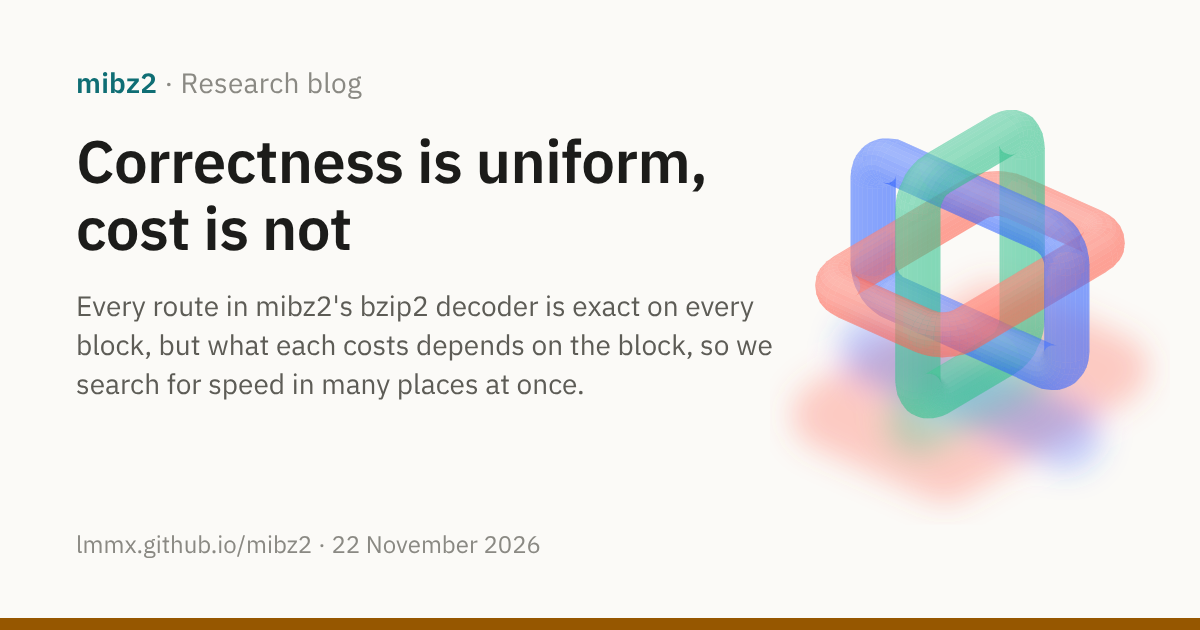
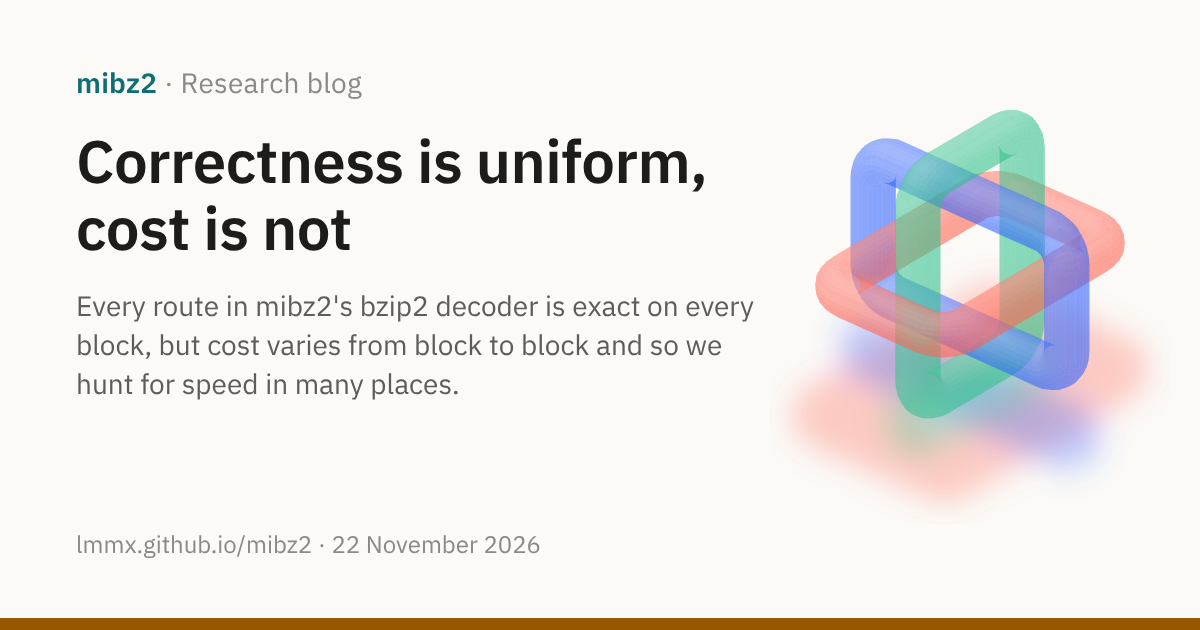
docs(blog): tighten 'Correctness is uniform, cost is not' to check_prose's band
The dek failed check_prose (29 words, 2 breaks); it is now 27 words with
one break, and the description, index card and social card follow it.
In the body, 32 of 142 sentences (23%) were flagged; overloaded ones are
split, with no claim changed, leaving 13 of 167 (8%).

Changed region(s): [[0.1542, 0.5127, 0.6475, 0.573], [0.0617, 0.6032, 0.4933, 0.6333]]

diff --git a/docs/site/blog/2026-11-22-correctness-is-uniform-cost-is-not.md b/docs/site/blog/2026-11-22-correctness-is-uniform-cost-is-not.md
@@ -1,7 +1,7 @@
 ---
 title: "Correctness is uniform, cost is not"
 image: assets/social/blog-2026-11-22-correctness-is-uniform-cost-is-not.png
-description: "Every route in mibz2's bzip2 decoder is exact on every block, but what each costs depends on the block, so we search for speed in many places at once."
+description: "Every route in mibz2's bzip2 decoder is exact on every block, but cost varies from block to block and so we hunt for speed in many places."
 ---
 
 <div class="post-hero" markdown>
@@ -13,7 +13,7 @@ description: "Every route in mibz2's bzip2 decoder is exact on every block, but 
 
 # Correctness is uniform, cost is not
 
-Every route in mibz2's bzip2 decoder is exact on every block, but what each costs depends on the block, so we search for speed in many places at once.
+Every route in mibz2's bzip2 decoder is exact on every block, but cost varies from block to block and so we hunt for speed in many places.
 {: .post-dek }
 
 22 November 2026 · 12 min read · [Research in progress](#7-what-is-proved-measured-and-open)
@@ -25,7 +25,7 @@ Every route in mibz2's bzip2 decoder is exact on every block, but what each cost
 
 </div>
 
-mibz2 is a bzip2 decoder in Rust, and most of its time goes on inverting the Burrows–Wheeler transform (BWT) of each block. Real compressed data offers that inversion no single way in. A block of a Wikidata dump is a JSON skeleton, copies of text already decoded, and random identifiers that no local structure predicts, in proportions that change from block to block. So the decoder is fast through several exact constructions, each cheap on a different structure, and its mathematics is as varied as its data.
+mibz2 is a bzip2 decoder in Rust, and most of its time goes on inverting the Burrows–Wheeler transform (BWT) of each block. Real compressed data offers that inversion no single way in. A block of a Wikidata dump holds a JSON skeleton, copies of text already decoded, and random identifiers that no local structure predicts. The proportions change from block to block. So the decoder is fast through several exact constructions, each cheap on a different structure, and its mathematics is as varied as its data.
 
 **The takeaways:**
 
@@ -33,13 +33,13 @@ mibz2 is a bzip2 decoder in Rust, and most of its time goes on inverting the Bur
 2. **Each fast route bets on a structure.** The bet is a cost hypothesis: when the block has this structure, this construction is cheaper. Finding structures worth betting on is the research.
 3. **When the data refuses a hypothesis, there are three responses:** weaken it; certify it more cheaply; or change the representation so it is no longer needed. Refusals are where the next construction comes from.
 4. **Global changes of representation are rare.** We have had one. Below it we pursue local constructions on purpose, and they may yet reveal a general one. We do not know how complete the family is.
-5. **Scope:** one decoder, bzip2's inverse BWT, judged on one workstation (an i9-10900K with a 20 MiB L3), with Wikidata as the main corpus. Nothing here is proved in Lean yet, and the literary analogy in §5 is not evidence.
+5. **Scope:** one decoder, bzip2's inverse BWT, with Wikidata as the main corpus. One workstation judges it: an i9-10900K with a 20 MiB L3. Nothing here is proved in Lean yet, and the literary analogy in §5 is not evidence.
 
 ## 1. One proof, two fates
 
-[lean-zip](https://github.com/kim-em/lean-zip) is a DEFLATE implementation in Lean whose round trip, `inflate (deflateRaw data level) = .ok data`, rests on "more than 1,100 theorems". Its README calls the result a ratchet: "the obligation `inflate (deflate x) = x` either still holds or the build goes red", so agents can optimise it hard without breaking it. It also says where it stands: its decoder trails "the C-grade decoders (miniz_oxide by ~1.45×, libdeflate by ~2.5×)". The theorem guarantees every optimisation is correct. It does not say which will be fast.
+[lean-zip](https://github.com/kim-em/lean-zip) is a DEFLATE implementation in Lean whose round trip, `inflate (deflateRaw data level) = .ok data`, rests on "more than 1,100 theorems". Its README calls the result a ratchet: "the obligation `inflate (deflate x) = x` either still holds or the build goes red". So agents can optimise it hard without breaking it. It also says where it stands: its decoder trails "the C-grade decoders (miniz_oxide by ~1.45×, libdeflate by ~2.5×)". The theorem guarantees every optimisation is correct. It does not say which will be fast.
 
-mibz2 has the same gap. Two recent changes are both byte-exact on every block, and the i9 judged them very differently at 10 threads on four copies of the Wikidata benchmark:
+mibz2 has the same gap. Two recent changes are both byte-exact on every block. The i9 judged them very differently, at 10 threads on four copies of the Wikidata benchmark:
 
 <figure class="bf-fig" id="cpu-wall">
 <p class="bf-title">Two exact changes on the i9 at 10 threads: CPU time against wall time</p>
@@ -47,13 +47,13 @@ mibz2 has the same gap. Two recent changes are both byte-exact on every block, a
 <figcaption>Measured on the i9-10900K, Wikidata ×4, 16 paired rounds each, 95% intervals. The construction stack (runs open-r5/run-20261122T051443Z and, on a later master, run-20261122T103311Z) saved CPU but not wall time. The block reader (parscan-c37/run-20261122T082138Z, decision 2; and block-reader-on-wormhole/run-20261122T093349Z, on top of #739) saved wall time.</figcaption>
 </figure>
 
-The construction stack cut 5% of CPU time in the inverse BWT, and its 10-thread wall time did not move. The block reader shortened the serial stage that feeds the workers, saved less CPU, and cut wall time by 7% alone and 10% on top of #739. With ten workers sharing one cache and one memory bus, saving work and saving time come apart. Correctness certifies that a change is admissible. Its cost lives in the data and the machine.
+The construction stack cut 5% of CPU time in the inverse BWT, and its 10-thread wall time did not move. The block reader shortened the serial stage that feeds the workers and saved less CPU. It cut wall time by 7% alone, and by 10% on top of #739. With ten workers sharing one cache and one memory bus, saving work and saving time come apart. Correctness certifies that a change is admissible. Its cost lives in the data and the machine.
 
 ## 2. What heterogeneity looks like in a Wikidata block
 
 Heterogeneity is measurable, and it shows at three scales.
 
-**Within a block.** Most of a Wikidata block is a repeated JSON skeleton of keys and punctuation, which bzip2 already turns into long runs, cheap to invert. A smaller share is repetition at a distance: `sha1` references and repeated strings, copies of text already decoded. Then there are the statement identifiers. They are random 122-bit GUIDs, and the birthday bound means their contexts shatter after about four or five hex digits. In the [classical-tools audit](https://github.com/lmmx/mibz2/blob/master/docs/journal/2026-11-22-classical-tools-audit.md) they are 53.6–67.1% of the width-1 rows the Open kernel retains, and 28.7% of its emission time on the six blocks measured. Three structures, three costs, in one block.
+**Within a block.** Most of a Wikidata block is a repeated JSON skeleton of keys and punctuation, which bzip2 already turns into long runs, cheap to invert. A smaller share is repetition at a distance: `sha1` references and repeated strings, copies of text already decoded. Then there are the statement identifiers. They are random 122-bit GUIDs, and the birthday bound means their contexts shatter after about four or five hex digits. The [classical-tools audit](https://github.com/lmmx/mibz2/blob/master/docs/journal/2026-11-22-classical-tools-audit.md) measured six blocks. There they are 53.6–67.1% of the width-1 rows the Open kernel retains, and 28.7% of its emission time. Three structures, three costs, in one block.
 
 **In the decoder's own terms.** The dispatch's gates are written in one structural statistic of a block, r/n: run records per row. So the heterogeneity can be read off the gates themselves:
 
@@ -63,7 +63,7 @@ Heterogeneity is measurable, and it shows at three scales.
 <figcaption>One dot per run-route block, from the per-block census of the open-admission journal (docs/journal/2026-11-19-open-admission/blocks.jsonl), coloured by today's route: green, Open; blue, Segmented. Larger dots are full blocks of 100,000 rows or more. Whether the runs corpus's two blocks fit the dense band's cap was not measured; Wikidata's five did.</figcaption>
 </figure>
 
-Wikidata's 233 full blocks lie between r/n 0.059 and 0.206, all inside Open's range, five of them in the dense band. Its 150 tiny blocks lie between 0.40 and 1.0 and go to `Segmented`. By count, Open takes barely half the corpus's 431 blocks; by rows, it takes 99.996%. Text sits just past the dense band, at 0.29–0.33, and the periodic `pattern` and `onebyte` sit below the sparse gate, at 0.008.
+Wikidata's 233 full blocks lie between r/n 0.059 and 0.206, all inside Open's range. Five of them are in the dense band. Its 150 tiny blocks lie between 0.40 and 1.0 and go to `Segmented`. By count, Open takes barely half the corpus's 431 blocks. By rows, it takes 99.996%. Text sits just past the dense band, at 0.29–0.33. The periodic `pattern` and `onebyte` sit below the sparse gate, at 0.008.
 
 **Between corpora.** One exact change gains differently on different data. The block reader of #745 on CI's paired bench, at 4 threads:
 
@@ -73,13 +73,13 @@ Wikidata's 233 full blocks lie between r/n 0.059 and 0.206, all inside Open's ra
 <figcaption>CI's paired bench on #745 (10 rounds, a 4-core Xeon runner, not the i9). Green: faster, the interval excluding no change. Grey: no change shown. The bz2 ratio is each corpus's output over its compressed size. Every run of both builds gave the same output on every corpus.</figcaption>
 </figure>
 
-The change speeds up the serial stage that reads the compressed stream. The barely compressible `records` and `random` gain 6–7%, while `runs` and `onebyte`, compressed hundreds or hundreds of thousands of times, show nothing. That fits the serial stage's share of the work growing with the compressed bytes, though the bench does not measure that share per corpus.
+The change speeds up the serial stage that reads the compressed stream. The barely compressible `records` and `random` gain 6–7%. The `runs` and `onebyte` corpora, compressed hundreds or hundreds of thousands of times, show nothing. That fits the serial stage's share of the work growing with the compressed bytes, though the bench does not measure that share per corpus.
 
-**Between families of data.** A hindsight oracle chose, per block, the fastest of thirteen kernel configurations over a research build: eleven settings of one Open construction, and two walks. On the 431 Wikidata blocks it would save 3.17% over that build's fixed setting; on six non-Wikidata blocks, 12.8–13.1% (single-threaded, on a research host). The same family of kernels has a different headroom on different data.
+**Between families of data.** A hindsight oracle chose, per block, the fastest of thirteen kernel configurations over a research build: eleven settings of one Open construction, and two walks. On the 431 Wikidata blocks it would save 3.17% over that build's fixed setting. On six non-Wikidata blocks it would save 12.8–13.1%. Both are single-threaded, on a research host. The same family of kernels has a different headroom on different data.
 
 ## 3. Exact routes, each betting on a structure
 
-The shipped dispatch, read from `src/` on master and set out in the [proof programme](https://github.com/lmmx/mibz2/blob/master/docs/team/research-charter/PROOF-PROGRAMME.md) (§5.1), looks like this for `OpenCells`, the kernel workers hold at 8 threads and above:
+The [proof programme](https://github.com/lmmx/mibz2/blob/master/docs/team/research-charter/PROOF-PROGRAMME.md) (§5.1) reads the shipped dispatch from `src/` on master. Here it is for `OpenCells`, the kernel workers hold at 8 threads and above:
 
 <figure class="bf-fig" id="dispatch">
 <p class="bf-title">The per-block dispatch: exact routes behind cost gates</p>
@@ -87,9 +87,9 @@ The shipped dispatch, read from `src/` on master and set out in the [proof progr
 <figcaption>The dispatch of OpenCells (src/lib.rs, src/runs.rs, src/open.rs, src/bwt.rs on master). Below 8 workers the kernel is Cells, and the cooperative teams use their own walks; PROOF-PROGRAMME.md §5.1 lists them all. Research candidates are not shown.</figcaption>
 </figure>
 
-A block's records are read when enough of its symbols are runs. On that route, the Open kernel takes the blocks its count gates admit, plus a dense band up to r/n 0.28 under a cap on retained rows ([#703](2026-11-21-a-memory-gain-is-a-gain.md)). Everything refused goes to `Segmented`, the walk that accepts every block.
+A block's records are read when enough of its symbols are runs. On that route, the Open kernel takes the blocks its count gates admit. It also takes a dense band up to r/n 0.28, under a cap on retained rows ([#703](2026-11-21-a-memory-gain-is-a-gain.md)). Everything refused goes to `Segmented`, the walk that accepts every block.
 
-The figure's point is its two kinds of line. Each box is a theorem of one shape: for route i, Pᵢ(x) ⇒ Fᵢ(x) = R(x), where R is the reference, the walk of the LF permutation on a valid block. For every shipped route, Pᵢ is only the entry condition, a valid block. Each is tested against R on arbitrary columns, not just on Wikidata. The gates are not part of any correctness argument. Each chooses for speed or for memory. Correctness is uniform across the routes; the structure each bets on is a cost hypothesis.
+The figure's point is its two kinds of line. Each box is a theorem of one shape: for route i, Pᵢ(x) ⇒ Fᵢ(x) = R(x). Here R is the reference, the walk of the LF permutation on a valid block. For every shipped route, Pᵢ is only the entry condition, a valid block. Each is tested against R on arbitrary columns, not just on Wikidata. The gates are not part of any correctness argument. Each chooses for speed or for memory. Correctness is uniform across the routes; the structure each bets on is a cost hypothesis.
 
 The Open kernel is the route where the unit of computation changes. The LF walk visits one row at a time, and on a block of runs most of those visits are predictable. Open treats the thin runs as strips and computes first-return maps between them, reached through Rauzy–Veech induction. The walk then jumps from strip to strip rather than from row to row. Its [proof](https://github.com/lmmx/mibz2/blob/master/docs/journal/2026-11-18-open-return/proof.md) is in the journal. Inside it, two more bets: a width certificate (below) and repetition of a short marked cycle.
 
@@ -99,7 +99,7 @@ Three refusals from the research lines show where the work is.
 
 - **A solver that never fires.** A pure-arithmetic solver for two-letter Sturmian blocks inverts them in O(log n) steps by the Euclidean algorithm, and it is exact on 5,627 Sturmian BWTs. On Wikidata, `gcd(w) = 1` on every block and 0.00% of Rauzy–Veech steps have a quotient of 2 or more. The hypothesis is sound, cheap to test, and true of no real block.
 - **The GUID wall.** No predicate on local structure picks the GUID rows out for a shortcut, because random identifiers have none. The escape would be to store them other than as BWT rows, which bzip2's format does not allow.
-- **The copy sector.** Three independent mechanisms found the repeated `sha1` and text rows and cut the hops spent on them by 16–58%, byte-exact. All three lose 1.14–2.64× end to end, because finding a copy costs more than emitting it saves: 10.1–10.5 ns a saved hop against 5.79 ns a row. The structure is real and common; recognising it is the obstruction, on the research host.
+- **The copy sector.** Three independent mechanisms found the repeated `sha1` and text rows and cut the hops spent on them by 16–58%, byte-exact. All three lose 1.14–2.64× end to end, because finding a copy costs more than emitting it saves. A saved hop costs 10.1–10.5 ns, against 5.79 ns to emit a row. The structure is real and common; recognising it is the obstruction, on the research host.
 
 Each refusal has three possible answers, and each has an example:
 
@@ -109,16 +109,16 @@ Each refusal has three possible answers, and each has an example:
 
 The first two add or move a branch of the dispatch. Only the third removes branches, and it is what keeps the decoder from becoming a tree that grows with every regime found.
 
-We propose to keep a map of these moves: from which hypothesis, by which move, to which, with the witness, the status and the measured effect. The obstructions go in it too, each with its scope. A failed implementation is not an impossible construction. The copy sector lost on one machine against one base; only an exact obstruction with a witness rules a construction out, and only within its scope.
+We propose to keep a map of these moves. Each entry records the hypothesis moved from, the move and the result. It also records the witness, the status and the measured effect. The obstructions go in it too, each with its scope. A failed implementation is not an impossible construction. The copy sector lost on one machine against one base; only an exact obstruction with a witness rules a construction out, and only within its scope.
 
 ## 5. The stutter
 
-The process in §4 has a shape, and an essay of Gilles Deleuze's names it well. In "He Stuttered", Deleuze separates a character who stutters in speech, which a writer can report, from a writer who makes the language itself stutter. In the second case the variation is not laid over a fixed language from outside. It comes from within the language's own system, putting it in continuous variation and disequilibrium. His examples include Melville, Kafka, Beckett, the poet Gherasim Luca and Charles Péguy, who moves from a word to its near-synonym with a slight shift of meaning each time.
+The process in §4 has a shape, and an essay of Gilles Deleuze's names it well. In "He Stuttered", Deleuze separates a character who stutters in speech, which a writer can report, from a writer who makes the language itself stutter. In the second case the variation is not laid over a fixed language from outside. It comes from within the language's own system, putting it in continuous variation and disequilibrium. His examples include Melville, Kafka, Beckett, the poet Gherasim Luca and Charles Péguy. Péguy moves from a word to its near-synonym, with a slight shift of meaning each time.
 
 The mapping to a decoder is close:
 
 - **The fixed thing said** is the conclusion, = R. It never moves.
-- **The reported stutter** is a special case bolted onto a uniform decoder: a branch that notices a regime and handles it on the side, while the decoder's objects stay what they were.
+- **The reported stutter** is a special case bolted onto a uniform decoder. A branch notices a regime and handles it on the side, while the decoder's objects stay what they were.
 - **The language stuttering** is a construction whose mathematical objects change with the data's structure. Rows become strips and returns; a hypothesis returns weakened, certified, or replaced by a representation that does not need it, and each return changes the question.
 
 The difference in what drives the variation matters. For Deleuze it is the writer, working the language. Here it is the data's resistance, worked by us. The program is the language the proof is written in, so a proof that follows the data must vary with it too.
@@ -129,9 +129,9 @@ The analogy has limits, and they should be plain. Deleuze wrote about literature
 
 Open is the one global change of representation so far. It is a classical idea, the induced map of Poincaré and Kakutani, reached through Rauzy–Veech induction. Everything since has been bound to a regime: the dense band, the width certificate, the block reader.
 
-Local constructions can lead to a global one. In mathematics a different proof of a solved case has opened new routes before: the Riemann Hypothesis for curves over finite fields was proved first by Weil, then by Stepanov's elementary method, completed by Bombieri, and it was that method's descendants that travelled ([Two centuries of tools](2026-11-22-two-centuries-of-tools.md)). Inverse BWT has the same structure. The LF walk, cycle decomposition and first-return induction are different constructive proofs that the BWT is invertible, and each gives a different decoder. The proof programme names seven points, L0 to L6, where one step of the proof can be replaced; Open replaced the classical route at L3, L4 and L5.
+Local constructions can lead to a global one. In mathematics a different proof of a solved case has opened new routes before. The Riemann Hypothesis for curves over finite fields was proved first by Weil. Then came Stepanov's elementary method, completed by Bombieri, and it was that method's descendants that travelled ([Two centuries of tools](2026-11-22-two-centuries-of-tools.md)). Inverse BWT has the same structure. The LF walk, cycle decomposition and first-return induction are different constructive proofs that the BWT is invertible, and each gives a different decoder. The proof programme names seven points, L0 to L6, where one step of the proof can be replaced. Open replaced the classical route at L3, L4 and L5.
 
-What we cannot yet say is how complete the family is. The oracle's 3.17% bounds only the alternatives it chose between: eleven settings of one construction's two parameters, and two walks, over a research build rather than master. It says that family is nearly saturated on Wikidata, and nothing about a construction outside it. The 10-thread plateau points the same way: every construction gain of the last twelve research cycles left the decoder's DRAM traffic at 10 workers at 4.91 bytes per output byte.
+What we cannot yet say is how complete the family is. The oracle's 3.17% bounds only the alternatives it chose between, over a research build rather than master. Those were eleven settings of one construction's two parameters, and two walks. It says that family is nearly saturated on Wikidata, and nothing about a construction outside it. The 10-thread plateau points the same way. Every construction gain of the last twelve research cycles left DRAM traffic at 10 workers unchanged, at 4.91 bytes per output byte.
 
 ## 7. What is proved, measured and open
 

diff --git a/docs/site/blog/index.md b/docs/site/blog/index.md
@@ -8,7 +8,7 @@ What mibz2's experiments are finding, and where they go next. The evidence behin
 post is in the [journals](../background/journals.md) and the pull requests they link.
 
 <div class="post-list">
-<a class="post-card" href="2026-11-22-correctness-is-uniform-cost-is-not.md"><img src="../assets/social/blog-2026-11-22-correctness-is-uniform-cost-is-not.png" alt="" loading="lazy"><span class="post-card-text"><span class="post-card-date">22 November 2026 · Research in progress</span><span class="post-card-title">Correctness is uniform, cost is not</span><span class="post-card-dek">Every route in mibz2's bzip2 decoder is exact on every block, but what each costs depends on the block, so we search for speed in many places at once.</span></span></a>
+<a class="post-card" href="2026-11-22-correctness-is-uniform-cost-is-not.md"><img src="../assets/social/blog-2026-11-22-correctness-is-uniform-cost-is-not.png" alt="" loading="lazy"><span class="post-card-text"><span class="post-card-date">22 November 2026 · Research in progress</span><span class="post-card-title">Correctness is uniform, cost is not</span><span class="post-card-dek">Every route in mibz2's bzip2 decoder is exact on every block, but cost varies from block to block and so we hunt for speed in many places.</span></span></a>
 <a class="post-card" href="2026-11-22-two-centuries-of-tools.md"><img src="../assets/social/blog-2026-11-22-two-centuries-of-tools.png" alt="" loading="lazy"><span class="post-card-text"><span class="post-card-date">22 November 2026 · Meta</span><span class="post-card-title">Two centuries of tools: a claimed Riemann proof's toolkit, and our search</span><span class="post-card-dek">A claimed Riemann proof built one new idea on fifty older tools reaching back two centuries, so our research teams now look back as hard as forward.</span></span></a>
 <a class="post-card" href="2026-11-21-a-memory-gain-is-a-gain.md"><img src="../assets/social/blog-2026-11-21-a-memory-gain-is-a-gain.png" alt="" loading="lazy"><span class="post-card-text"><span class="post-card-date">21 November 2026 · Research result</span><span class="post-card-title">Admitting dense blocks to the Open kernel: 29% less peak memory</span><span class="post-card-dek">A bounded admission band takes five dense blocks off a 5.6 MiB-per-worker fallback, and the decoder runs slightly faster in over a quarter less memory.</span><span class="post-card-rel">Shipped in 0.5.11</span></span></a>
 <a class="post-card" href="2026-11-21-besieging-hard-problems.md"><img src="../assets/social/blog-2026-11-21-besieging-hard-problems.png" alt="" loading="lazy"><span class="post-card-text"><span class="post-card-date">21 November 2026 · Meta</span><span class="post-card-title">Besieging hard problems: cheap checks first, after the Riemann proof</span><span class="post-card-dek">A machine-checked Riemann proof shows how far a search can range once checking is cheap, so ours now begins by making speed cheap to check.</span><span class="post-card-rel">Shipped in 0.5.10</span></span></a>
